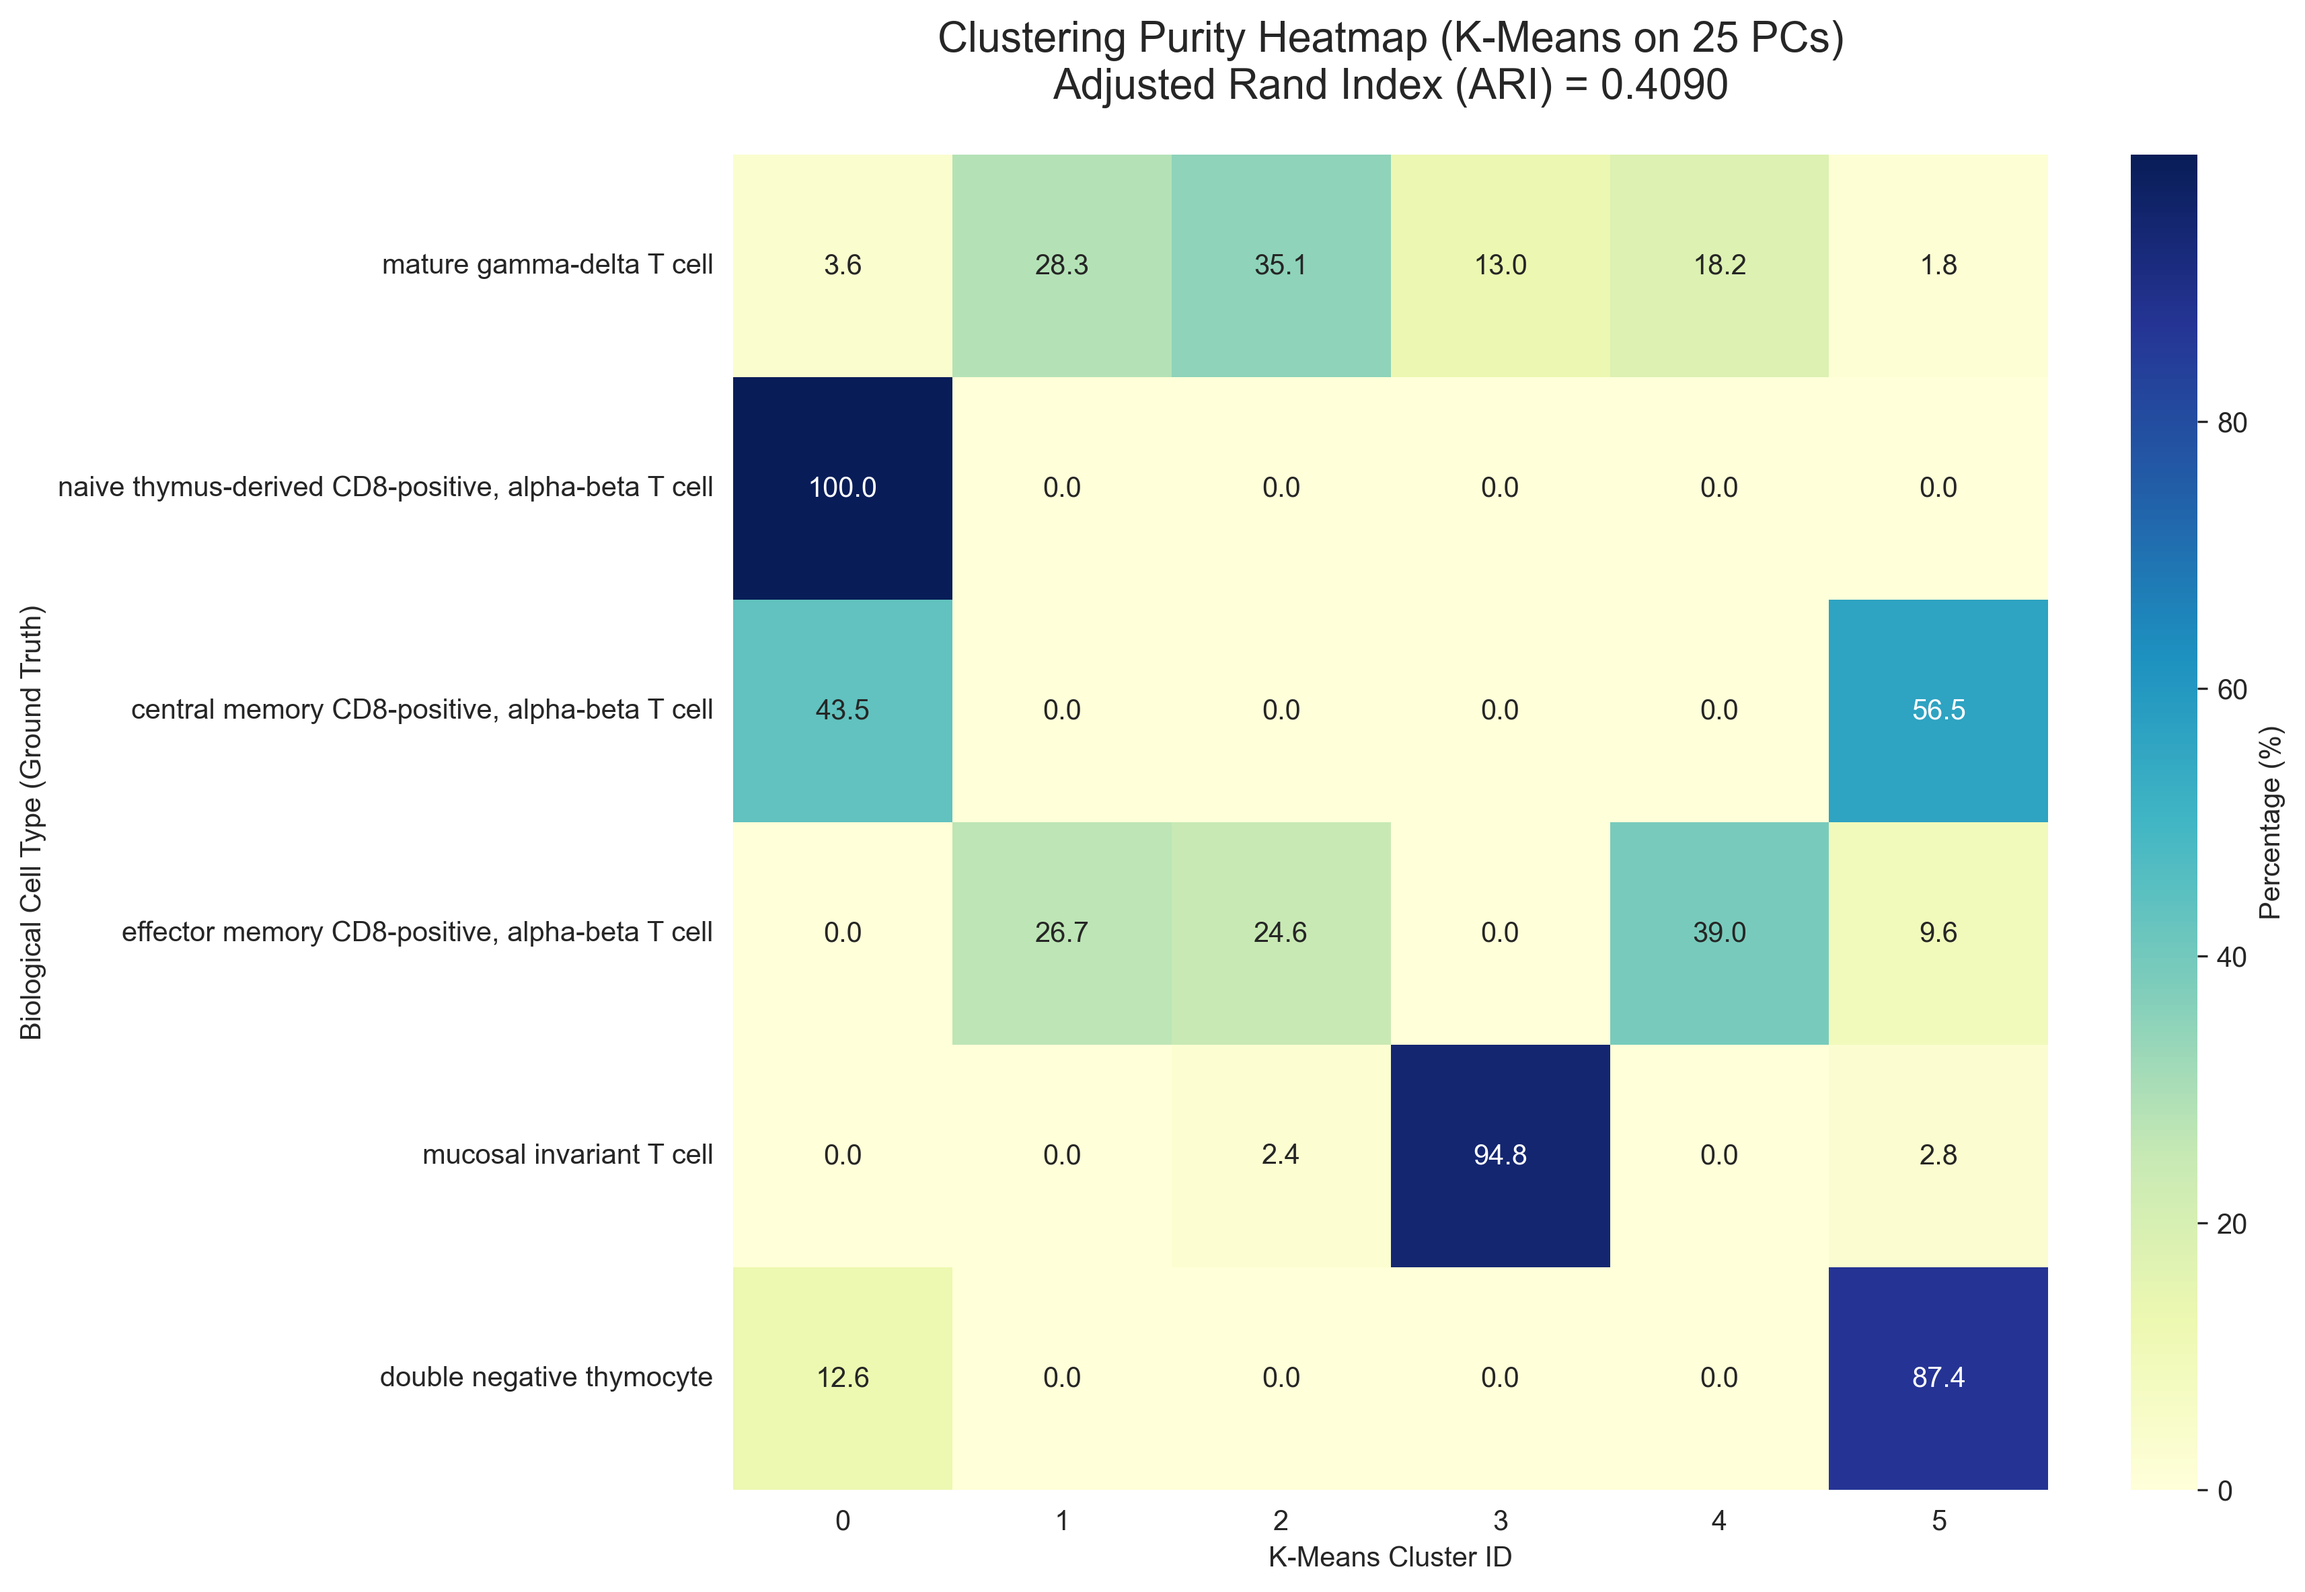
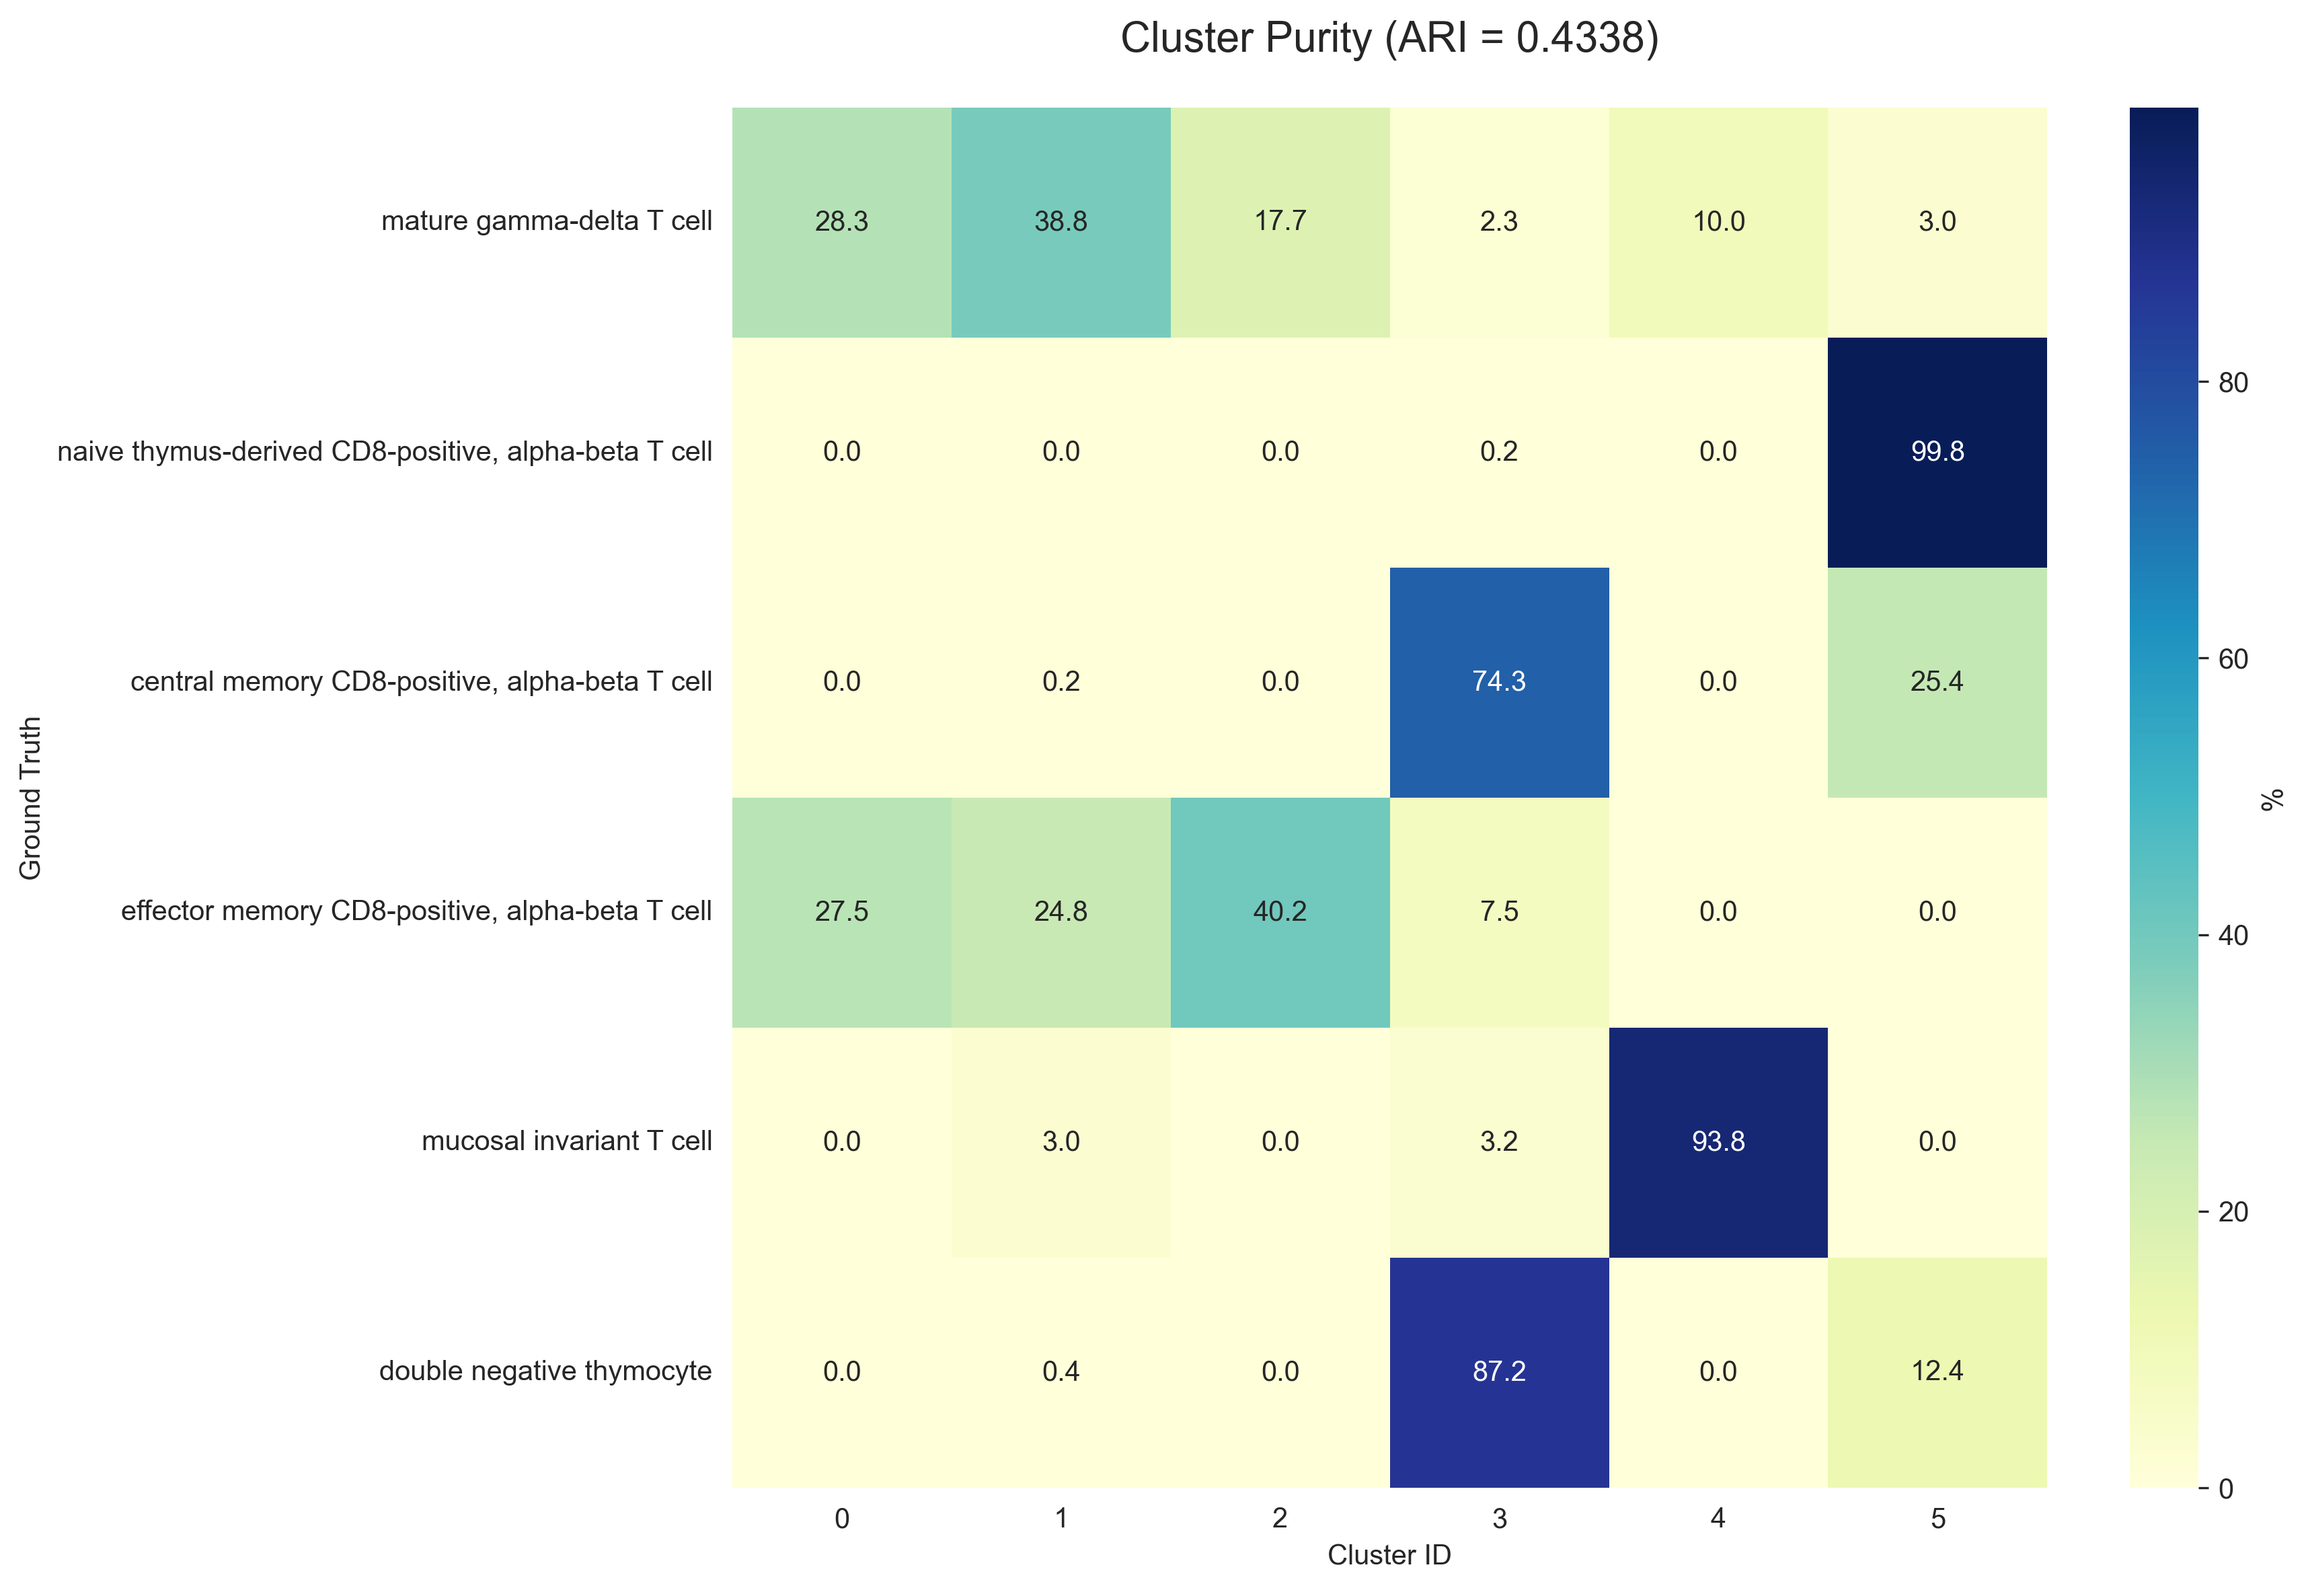
plots

diff --git a/method2_logistic_regression.py b/method2_logistic_regression.py
@@ -1,6 +1,6 @@
 import numpy as np
 from dataloader import load_split
-from sklearn.metrics import precision_score, recall_score, roc_auc_score, f1_score
+from sklearn.metrics import precision_score, recall_score, roc_auc_score, f1_score, roc_curve, precision_recall_curve, auc
 import matplotlib
 matplotlib.use('Agg')
 import matplotlib.pyplot as plt
@@ -149,3 +149,35 @@ if __name__ == "__main__":
     print(f"F1 Score: {f1_score(y_val, val_preds, zero_division=0):.4f}")
     print(f"ROC-AUC: {roc_auc_score(y_val, val_probs):.4f}")
     
+    # Final Performance Plots
+    plt.figure(figsize=(14, 6))
+    
+    # ROC Curve
+    fpr, tpr, _ = roc_curve(y_val, val_probs)
+    roc_auc = auc(fpr, tpr)
+    plt.subplot(1, 2, 1)
+    plt.plot(fpr, tpr, color='darkorange', lw=2, label=f'ROC curve (area = {roc_auc:.2f})')
+    plt.plot([0, 1], [0, 1], color='navy', lw=2, linestyle='--')
+    plt.xlim([0.0, 1.0])
+    plt.ylim([0.0, 1.05])
+    plt.xlabel('False Positive Rate')
+    plt.ylabel('True Positive Rate')
+    plt.title('Receiver Operating Characteristic')
+    plt.legend(loc="lower right")
+    plt.grid(alpha=0.3)
+
+    # Precision-Recall Curve
+    prec, rec, _ = precision_recall_curve(y_val, val_probs)
+    pr_auc = auc(rec, prec)
+    plt.subplot(1, 2, 2)
+    plt.plot(rec, prec, color='blue', lw=2, label=f'PR curve (area = {pr_auc:.2f})')
+    plt.axhline(y=np.mean(y_val), color='grey', linestyle='--', label='Random Chance')
+    plt.xlabel('Recall')
+    plt.ylabel('Precision')
+    plt.title('Precision-Recall Curve')
+    plt.legend(loc="upper right")
+    plt.grid(alpha=0.3)
+
+    plt.tight_layout()
+    plt.savefig("plots/method2_performance.png", dpi=300, bbox_inches='tight')
+    plt.close()

diff --git a/method1_clustering.py b/method1_clustering.py
@@ -70,6 +70,9 @@ def run_clustering_analysis(file_path):
     pca = PCA(n_components=25)
     X_pca = pca.fit_transform(X)
     X_2d = X_pca[:, :2] 
+    
+    explained_variance = np.sum(pca.explained_variance_ratio_) * 100
+    print(f"Variance explained by 25 PCs: {explained_variance:.2f}%")
 
     print(f"K-Means (25 PCs)...")
     labels_pc, _ = kmeans(X_pca, k=k)
@@ -108,7 +111,26 @@ def run_clustering_analysis(file_path):
     plt.savefig("plots/method1_comparison_presentation.png", dpi=300, bbox_inches='tight')
     plt.close()
 
-    # Heatmap Purity
+    # Plot 2: Scree Plot (Explained Variance)
+    plt.figure(figsize=(10, 6))
+    var_exp = pca.explained_variance_ratio_ * 100
+    cum_var_exp = np.cumsum(var_exp)
+    
+    plt.bar(range(1, 26), var_exp, alpha=0.5, align='center', label='Individual variance', color='royalblue')
+    plt.step(range(1, 26), cum_var_exp, where='mid', label='Cumulative variance', color='crimson', lw=2)
+    
+    plt.ylabel('Explained Variance Ratio (%)')
+    plt.xlabel('Principal Component Index')
+    plt.title('Scree Plot: Variance Explained by Components', fontsize=14)
+    plt.xticks(range(1, 26, 2))
+    plt.legend(loc='best')
+    plt.grid(axis='y', alpha=0.3)
+    
+    plt.tight_layout()
+    plt.savefig("plots/method1_scree_plot.png", dpi=300, bbox_inches='tight')
+    plt.close()
+
+    # Plot 3: Heatmap Purity
     plt.figure(figsize=(12, 8))
     contingency_df = pd.DataFrame({'Cluster': labels_pc, 'Cell Type': y_celltype})
     heatmap_data = pd.crosstab(contingency_df['Cell Type'], contingency_df['Cluster'])
